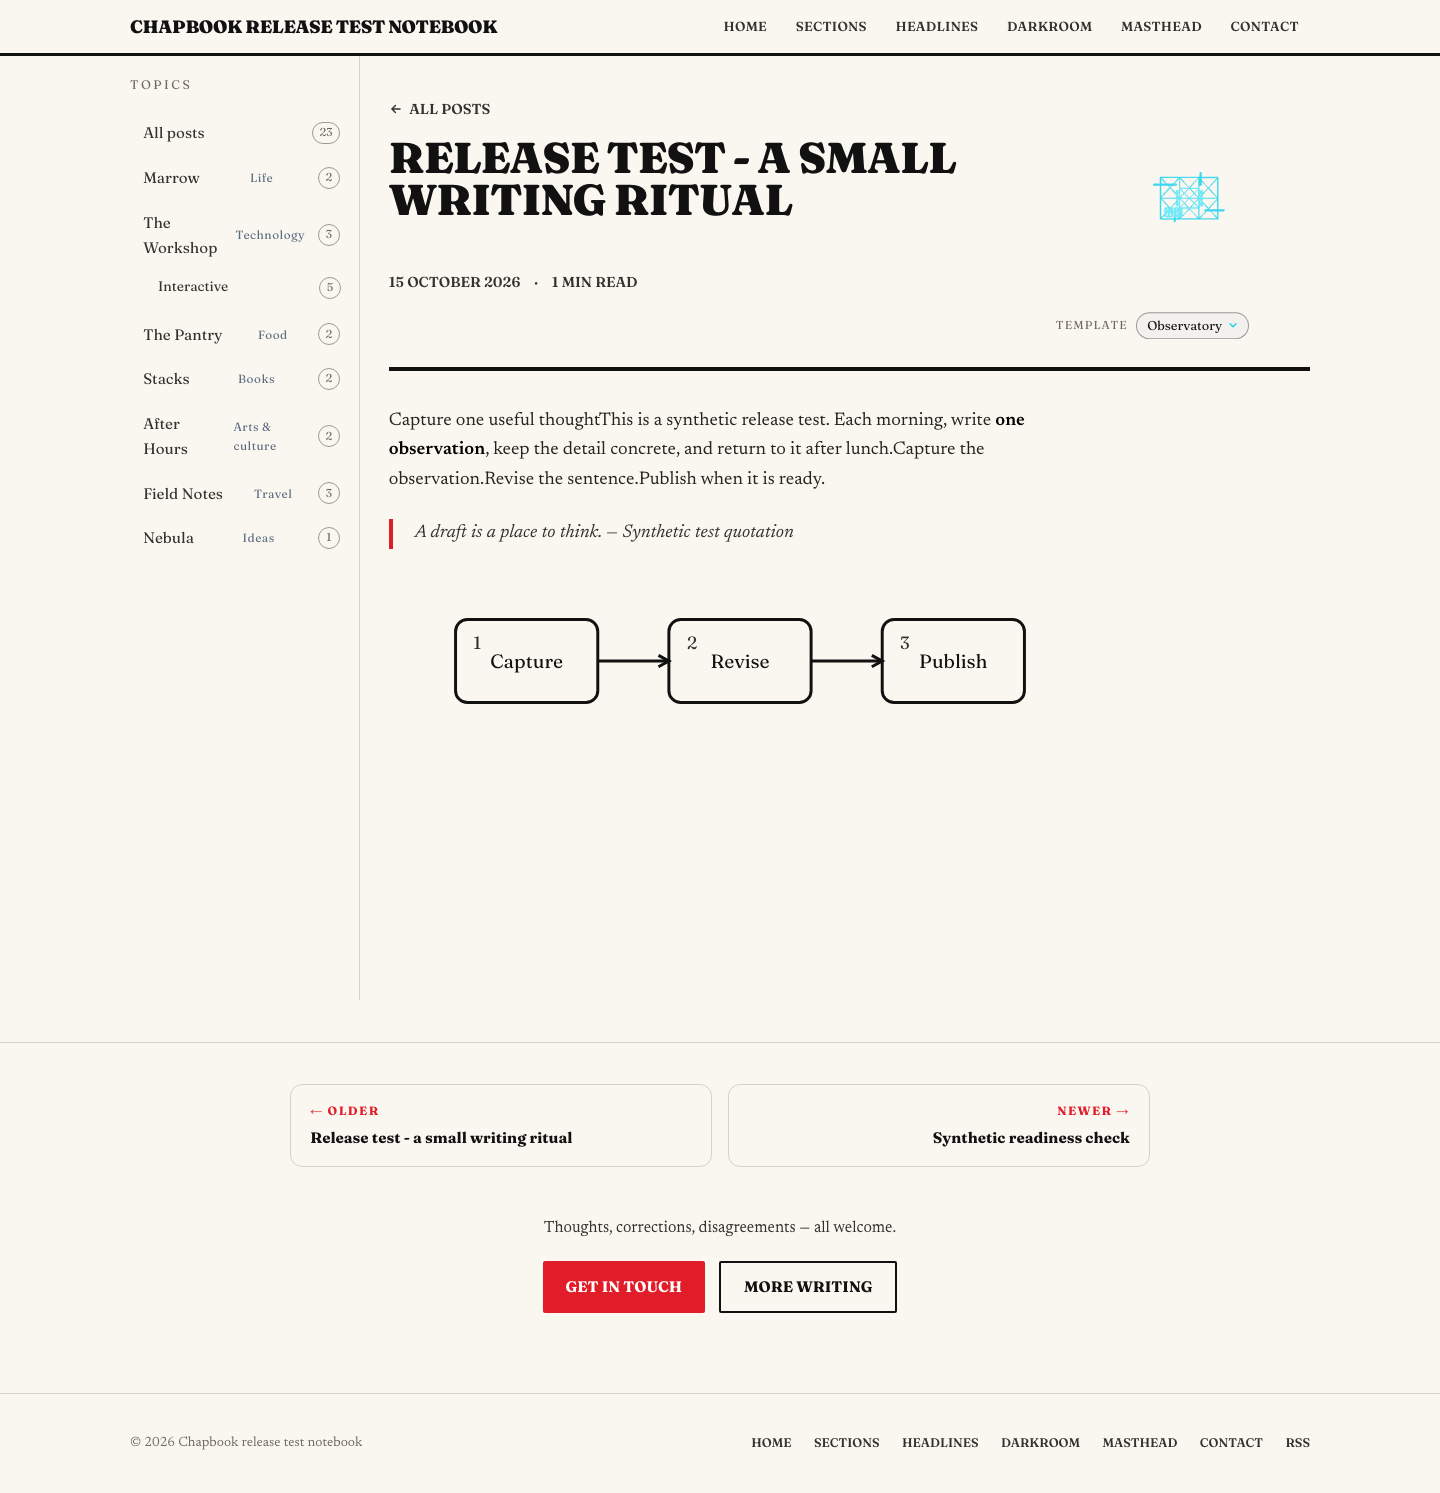
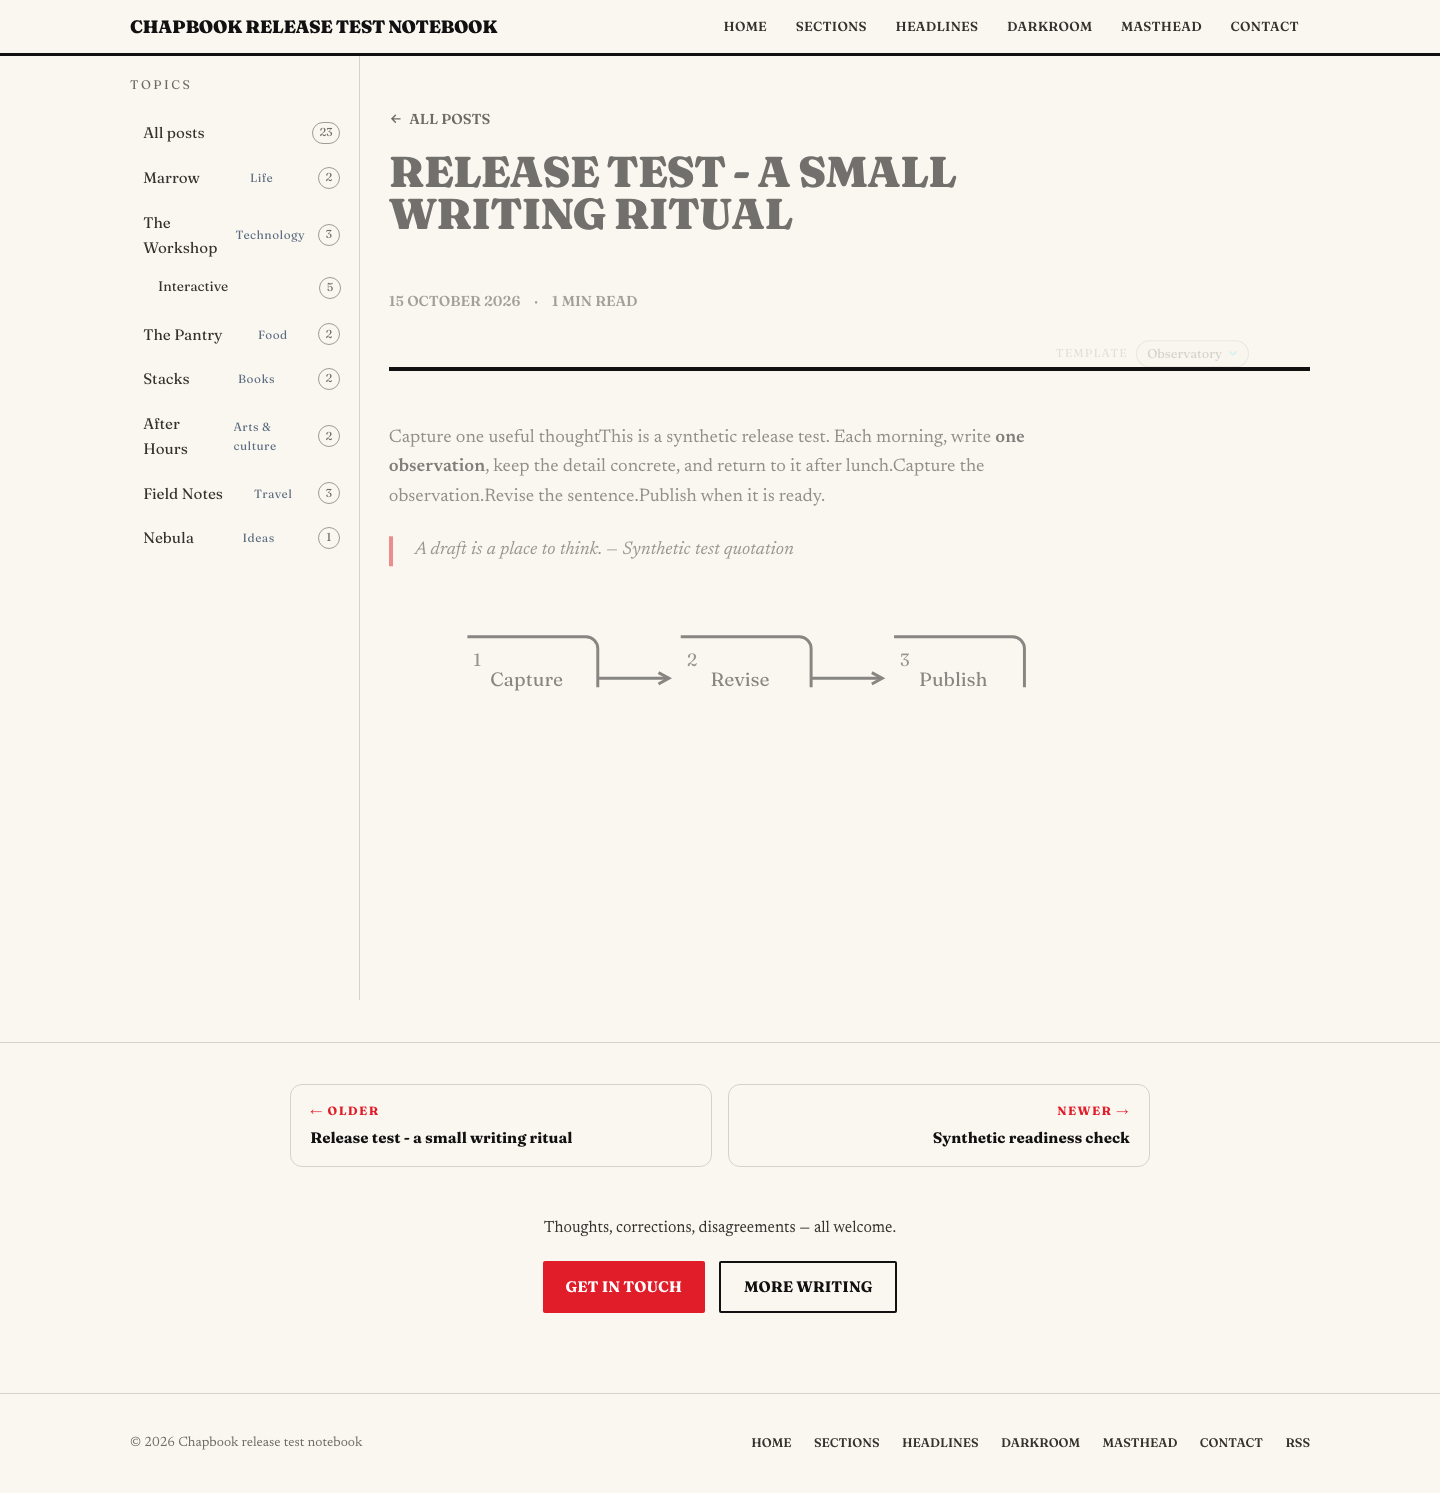
Record successful live published-page checks after media URL fix

diff --git a/docs/launch-readiness-2026-10-15.md b/docs/launch-readiness-2026-10-15.md
@@ -67,6 +67,7 @@ See [booking setup](booking-and-business-sites.md) for the owner steps and offic
 | Production release gate | 12 passed, 0 skipped | Headers, CSP, activation, XSS, service worker, marketing, routes and live checkout link presence |
 | Owner Helm smoke | Passed | PIN unlock, eight authenticated API reads, nine Atelier views and no uncaught page errors |
 | Real GitHub lifecycle | Passed | Isolated repository creation, publish, takedown, republish, duplicate, delete and due scheduled deployment |
+| Published-page verification | Eight passed | All four live posts at 1440 and 390 pixels; images decode, figures render, sandbox controls switch, no uncaught script errors |
 | Live editor publication | Four posts published | Genuine one-day test licence; actual hosted apps → GitHub → Pages, with editable sidecars |
 
 Browser coverage includes ideas, drafts, revision history, writing threads, untitled recovery, backup export/import and malformed import, publish/schedule/takedown/duplicate/delete, photo uploads and share URLs, unsafe path rejection, interactive presets, 23 figure families, formula slider behavior under production-like CSP, responsive views and offline reopening. These mocked transport tests are distinct from the real GitHub and hosted publishing checks.
@@ -84,12 +85,13 @@ Raw credential-free results and screenshots are in [readiness evidence](readines
 
 ## Release identities
 
+- Chapbook source commit: `2b993f2`.
 - Chapbook production Netlify deploy: `6ad11287a3d390f751496b90`.
 - Atelier deployed Pages commit: `73c28dabd63489a69cec19f934e13cb7aa42c3be`.
 - Atelier source commit: `1b196d6`.
 - Helm source commit: `112936f`.
 - Public template commits: `f16c3be` (themes), `b340a76` (published-media subpaths).
-- Personal website commits: `2939c0e` (themes; Hostinger deployment succeeded), `88f5a45` (shared media URL handling).
+- Personal website commits: `2939c0e` (themes; Hostinger deployment succeeded), `88f5a45` (shared media URL handling; Hostinger deployment succeeded).
 
 ## Remaining limits
 
